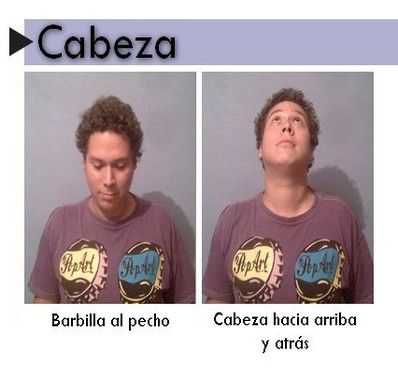
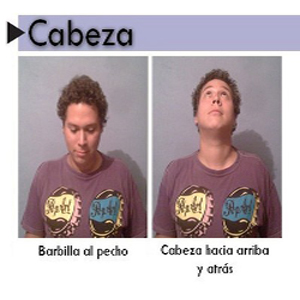
Edited alignment of exercises

diff --git a/src/ergo_guard/Exercises.java b/src/ergo_guard/Exercises.java
@@ -40,9 +40,10 @@ public class Exercises extends JFrame{
         img = Toolkit.getDefaultToolkit().createImage(imgBg);
         
         JPanel panel = new PicturePanel();
+        panel.setSize(WIDTH, WIDTH);
         
         JPanel panel2 = new JPanel();
-        panel2.setLayout(new GridLayout(3,10));
+        panel2.setPreferredSize(new Dimension(600, 600));
         panel2.setOpaque(false);
         
         JLabel legend = new JLabel("Has pasado mucho tiempo en la computadora");
@@ -63,20 +64,18 @@ public class Exercises extends JFrame{
         Random rn = new Random();
         
         JLabel exerPic = new JLabel("",SwingConstants.CENTER);
-        exerPic.setLocation(200, 200);
         
         ImageIcon imgExer = new ImageIcon(bodyExer[rn.nextInt(bodyExer.length)]);
         exerPic.setIcon(imgExer);
         
+        Dimension minSize = new Dimension(10, 180);
+        Dimension prefSize = new Dimension(10, 180);
+        Dimension maxSize = new Dimension(10, 180);
+        panel2.add(new Box.Filler(minSize, prefSize, maxSize));
         panel2.add(legend);
         panel2.add(exerPic);
-        
-        Box box = Box.createVerticalBox();
-        box.add(Box.createVerticalGlue());
-        box.add(panel2);
-        box.add(Box.createVerticalGlue());
-        
-        panel.add(box);
+
+        panel.add(panel2);
         
         add(panel);
         
